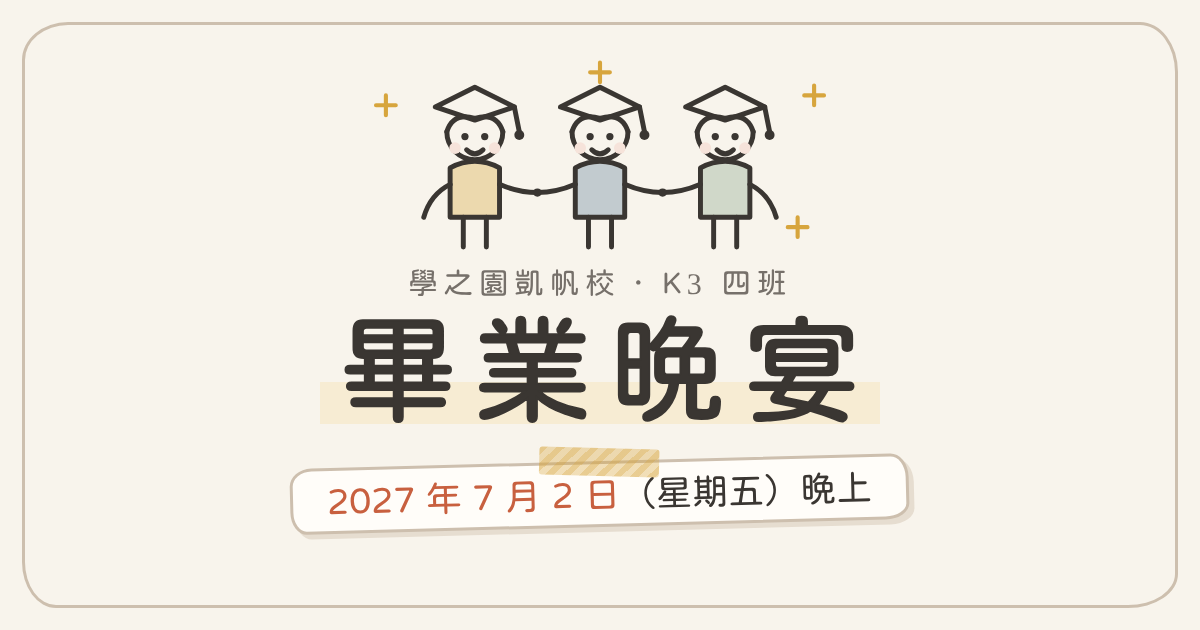
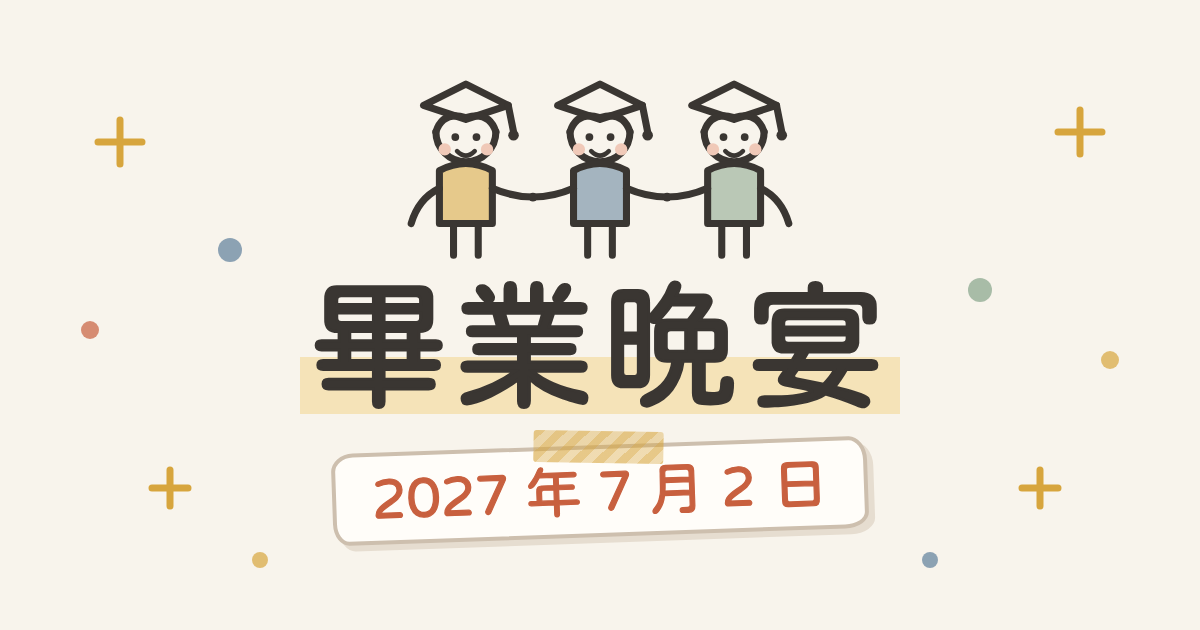
分享圖：主要內容放中間，WhatsApp 方形縮圖也清楚
WhatsApp 把 1200×630 橫圖裁成約 110px 方形縮圖，舊版小字及細線糊掉。
新版只留小朋友、「畢業晚宴」及日期，全部在中間 600px，字及線條加粗；
兩側只放裝飾。分享圖網址加部署編號，令 WhatsApp 讀新圖。

Claude-Session: https://claude.ai/code/session_012aMweNPaKxdBzP4pW9eBjc

diff --git a/tools/share-image/og.html b/tools/share-image/og.html
@@ -1,24 +1,31 @@
 <!doctype html><html lang="zh-Hant"><head><meta charset="utf-8">
+<!-- 主要內容全部放在中間 600px：WhatsApp 等會把圖裁成正方形縮圖，兩側只放裝飾。 -->
 <style>
 @font-face{font-family:H;src:url(font/huninn-sub.woff2)}
-:root{--paper:#f8f4ec;--surface:#fffdf9;--ink:#3a3632;--muted:#76706a;--line:#e6ddd0;--stroke:#cdbfae;--ai:#5e7f9b;--shu:#c8603f;--shu-soft:#f6e3da;--kin:#d7a53d;--kin-soft:#f7ecd3;--sage:#86a48a;
---tape:repeating-linear-gradient(135deg,rgba(215,165,61,.55) 0 6px,rgba(215,165,61,.35) 6px 12px)}
+:root{--paper:#f8f4ec;--surface:#fffdf9;--ink:#3a3632;--muted:#76706a;--line:#e6ddd0;--stroke:#cdbfae;--ai:#5e7f9b;--shu:#c8603f;--shu-soft:#f0c9b8;--kin:#d7a53d;--kin-soft:#f5e3b8;--sage:#86a48a;
+--tape:repeating-linear-gradient(135deg,rgba(215,165,61,.6) 0 8px,rgba(215,165,61,.38) 8px 16px)}
 html,body{margin:0}
 body{width:1200px;height:630px;background:var(--paper);font-family:H;color:var(--ink);position:relative;overflow:hidden;display:flex;flex-direction:column;align-items:center}
-.frame{position:absolute;inset:22px;border:3px solid var(--stroke);border-radius:46px 38px 50px 34px/38px 50px 34px 46px}
-.kids{width:560px;height:auto;margin-top:46px;overflow:visible}
-.kids .ln{fill:none;stroke:var(--ink);stroke-width:3;stroke-linecap:round;stroke-linejoin:round}
-.kids .fl,.kids .eye{fill:var(--ink)}.kids .cheek{fill:var(--shu-soft)}
+.kids{width:600px;height:auto;margin-top:40px;overflow:visible}
+.kids .ln{fill:none;stroke:var(--ink);stroke-width:4;stroke-linecap:round;stroke-linejoin:round}
+.kids .fl,.kids .eye{fill:var(--ink)}.kids path[d*="q5 5 10 0"]{stroke-width:2.6}.kids .cheek{fill:var(--shu-soft)}
 .kids .c1{fill:var(--kin)}.kids .c2{fill:var(--ai)}.kids .c3{fill:var(--sage)}
-.kids .star{fill:none;stroke:var(--kin);stroke-width:2.5;stroke-linecap:round}
-.eyebrow{font-size:30px;color:var(--muted);letter-spacing:.18em;margin-top:6px}
-h1{font-size:118px;line-height:1.1;margin:4px 0 0;letter-spacing:.14em;font-weight:400;-webkit-text-stroke:2px var(--ink)}
-.mark{background:linear-gradient(transparent 60%,var(--kin-soft) 60% 92%,transparent 92%);padding:0 .02em 0 .16em}
-.date{position:relative;margin-top:26px;font-size:36px;padding:10px 34px;background:var(--surface);border:3px solid var(--stroke);border-radius:22px 18px 24px 16px/18px 24px 16px 22px;transform:rotate(-1.5deg);box-shadow:5px 5px 0 var(--line)}
-.date::before{content:"";position:absolute;top:-16px;left:50%;width:120px;height:28px;transform:translateX(-50%) rotate(3deg);background:var(--tape);border-radius:3px}
-.date b{color:var(--shu);font-weight:400}
+.kids [style*="opacity:.35"]{opacity:.55!important}
+h1{font-size:140px;line-height:1;margin:6px 0 0;letter-spacing:.04em;font-weight:400;-webkit-text-stroke:3px var(--ink)}
+.mark{background:linear-gradient(transparent 58%,var(--kin-soft) 58% 94%,transparent 94%);padding:0 .06em}
+.date{position:relative;margin-top:30px;font-size:56px;line-height:1;padding:14px 36px;color:var(--shu);-webkit-text-stroke:1.2px var(--shu);background:var(--surface);border:4px solid var(--stroke);border-radius:22px 18px 24px 16px/18px 24px 16px 22px;transform:rotate(-2deg);box-shadow:6px 6px 0 var(--line)}
+.date::before{content:"";position:absolute;top:-18px;left:50%;width:130px;height:32px;transform:translateX(-50%) rotate(3deg);background:var(--tape);border-radius:3px}
+.deco{position:absolute;inset:0}
+.deco .star{fill:none;stroke:var(--kin);stroke-width:7;stroke-linecap:round}
+.deco .dot{opacity:.7}
 </style></head><body>
-<div class="frame"></div>
+<svg class="deco" viewBox="0 0 1200 630" aria-hidden="true">
+<path class="star" d="M120 120 v44 M98 142 h44"/><path class="star" d="M1080 110 v44 M1058 132 h44"/>
+<path class="star" d="M1040 470 v36 M1022 488 h36"/><path class="star" d="M170 470 v36 M152 488 h36"/>
+<circle class="dot" cx="230" cy="250" r="12" fill="#5e7f9b"/><circle class="dot" cx="980" cy="290" r="12" fill="#86a48a"/>
+<circle class="dot" cx="90" cy="330" r="9" fill="#c8603f"/><circle class="dot" cx="1110" cy="360" r="9" fill="#d7a53d"/>
+<circle class="dot" cx="260" cy="560" r="8" fill="#d7a53d"/><circle class="dot" cx="930" cy="560" r="8" fill="#5e7f9b"/>
+</svg>
 <svg class="kids" viewBox="0 0 340 130" role="img" aria-label="三個戴畢業帽的小朋友手牽手">
       <g class="scene">
       <g class="kid" style="--i:0;transform-origin:94px 122px"><path class="ln" pathLength="1" data-x=":0.07s" d="M70 37 L94 25 L118 37 L94 45 Z"/><g class="tassel" style="transform-origin:118px 37px"><path class="ln" pathLength="1" data-x=":0.14s" d="M118 37 L121 52"/><circle class="fl" cx="121" cy="54" r="3"/></g><path class="ln" pathLength="1" data-x=":0.21s" d="M77 52 a17 17 0 1 0 34 0"/><path class="ln" pathLength="1" data-x=":0.28s" d="M77 52 q4 -12 17 -8 q13 -4 17 8"/><circle class="eye" cx="88" cy="55" r="2.2"/><circle class="eye" cx="100" cy="55" r="2.2"/><circle class="cheek" cx="82" cy="62" r="3.5"/><circle class="cheek" cx="106" cy="62" r="3.5"/><path class="ln" pathLength="1" data-x=":0.35s" d="M89 63 q5 5 10 0"/><path class="c1" style="opacity:.35" d="M79 74 q15 -8 30 0 v30 h-30 z"/><path class="ln" pathLength="1" data-x=":0.42s" d="M79 74 q15 -8 30 0 v30 h-30 z"/><path class="ln" pathLength="1" data-x=":0.49s" d="M87 104 v18 M101 104 v18"/></g>
@@ -28,13 +35,8 @@ h1{font-size:118px;line-height:1.1;margin:4px 0 0;letter-spacing:.14em;font-weig
       <path class="ln" pathLength="1" data-x=":1.61s" d="M185 84 q23 10 46 0"/><circle class="fl" cx="208" cy="89" r="2.5"/>
       <path class="ln" pathLength="1" data-x=":1.68s" d="M79 84 q-12 6 -16 20"/>
       <path class="ln" pathLength="1" data-x=":1.75s" d="M261 84 q12 6 16 20"/>
-      <path class="star" pathLength="1" style="--i:0" d="M40 30 v12 M34 36 h12"/>
-      <path class="star" pathLength="1" style="--i:1" d="M300 24 v12 M294 30 h12"/>
-      <path class="star" pathLength="1" style="--i:2" d="M170 10 v12 M164 16 h12"/>
-      <path class="star" pathLength="1" style="--i:3" d="M290 104 v12 M284 110 h12"/>
       </g>
     </svg>
-<div class="eyebrow">學之園凱帆校 · K3 四班</div>
 <h1><span class="mark">畢業晚宴</span></h1>
-<div class="date"><b>2027 年 7 月 2 日</b>（星期五）晚上</div>
+<div class="date">2027 年 7 月 2 日</div>
 </body></html>

diff --git a/site/index.html b/site/index.html
@@ -14,10 +14,10 @@
   <meta property="og:title" content="K3 畢業晚宴 · 2027 年 7 月 2 日">
   <meta property="og:description" content="學之園凱帆校 K3 四班。報名、收費、你家要付多少，都在這裏。">
   <meta property="og:url" content="https://open-grad-din.github.io/open-grad-din/">
-  <meta property="og:image" content="https://open-grad-din.github.io/open-grad-din/og.png">
+  <meta property="og:image" content="https://open-grad-din.github.io/open-grad-din/og.png?v=__COMMIT_SHORT__">
   <meta property="og:image:width" content="1200">
   <meta property="og:image:height" content="630">
-  <meta property="og:image:alt" content="三個戴畢業帽的小朋友手牽手，下面寫着畢業晚宴，2027 年 7 月 2 日（星期五）晚上">
+  <meta property="og:image:alt" content="三個戴畢業帽的小朋友手牽手，下面寫着畢業晚宴，2027 年 7 月 2 日">
   <meta name="twitter:card" content="summary_large_image">
   <link rel="icon" href="favicon.svg" type="image/svg+xml">
   <link rel="icon" href="favicon-32.png" type="image/png" sizes="32x32">

diff --git a/site/fees.html b/site/fees.html
@@ -14,10 +14,10 @@
   <meta property="og:title" content="老師餐和雜費 · K3 畢業晚宴">
   <meta property="og:description" content="每位上限及三個老師餐和雜費分擔方案，報名時三揀一。">
   <meta property="og:url" content="https://open-grad-din.github.io/open-grad-din/fees.html">
-  <meta property="og:image" content="https://open-grad-din.github.io/open-grad-din/og.png">
+  <meta property="og:image" content="https://open-grad-din.github.io/open-grad-din/og.png?v=__COMMIT_SHORT__">
   <meta property="og:image:width" content="1200">
   <meta property="og:image:height" content="630">
-  <meta property="og:image:alt" content="三個戴畢業帽的小朋友手牽手，下面寫着畢業晚宴，2027 年 7 月 2 日（星期五）晚上">
+  <meta property="og:image:alt" content="三個戴畢業帽的小朋友手牽手，下面寫着畢業晚宴，2027 年 7 月 2 日">
   <meta name="twitter:card" content="summary_large_image">
   <link rel="icon" href="favicon.svg" type="image/svg+xml">
   <link rel="icon" href="favicon-32.png" type="image/png" sizes="32x32">

diff --git a/site/venues.html b/site/venues.html
@@ -14,10 +14,10 @@
   <meta property="og:title" content="你家要付多少 · K3 畢業晚宴">
   <meta property="og:description" content="輸入你家人數，看看每個候選場地你家大約要付多少。">
   <meta property="og:url" content="https://open-grad-din.github.io/open-grad-din/venues.html">
-  <meta property="og:image" content="https://open-grad-din.github.io/open-grad-din/og.png">
+  <meta property="og:image" content="https://open-grad-din.github.io/open-grad-din/og.png?v=__COMMIT_SHORT__">
   <meta property="og:image:width" content="1200">
   <meta property="og:image:height" content="630">
-  <meta property="og:image:alt" content="三個戴畢業帽的小朋友手牽手，下面寫着畢業晚宴，2027 年 7 月 2 日（星期五）晚上">
+  <meta property="og:image:alt" content="三個戴畢業帽的小朋友手牽手，下面寫着畢業晚宴，2027 年 7 月 2 日">
   <meta name="twitter:card" content="summary_large_image">
   <link rel="icon" href="favicon.svg" type="image/svg+xml">
   <link rel="icon" href="favicon-32.png" type="image/png" sizes="32x32">

diff --git a/tools/share-image/README.md b/tools/share-image/README.md
@@ -13,4 +13,4 @@ node shot.js "$PWD/og.html" "$PWD/../../site/og.png"
 node fav.js && mv favicon-32.png apple-touch-icon.png ../../site/ && cp favicon.svg ../../site/ && rm -f icon-512.png
 ```
 
-改了分享圖後，WhatsApp 可能仍顯示舊圖一段時間（它會快取預覽）。
+主要內容要放在中間 600px：WhatsApp 等會把圖裁成正方形小縮圖。分享圖網址帶部署編號（`og.png?v=…`），改圖後新分享的連結會讀新圖；舊對話的預覽仍可能是舊圖。
